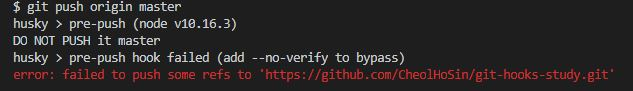
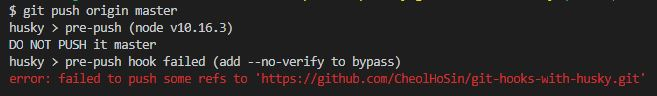
rename project

diff --git a/README.md b/README.md
@@ -135,8 +135,8 @@ push 를 실행하는 경우 동작해야 하므로, `pre-push` 훅을 사용하
 ```sh
 #!/bin/sh
 
-FORBIDDEN_HTTPS_URL="https://github.com/CheolHoSin/git-hooks-study.git" # insert your remote url (https)
-FORBIDDEN_SSH_URL="git@github.com:CheolHoSin/git-hooks-study.git" # insert your remote url (ssh)
+FORBIDDEN_HTTPS_URL="https://github.com/CheolHoSin/git-hooks-with-husky.git" # insert your remote url (https)
+FORBIDDEN_SSH_URL="git@github.com:CheolHoSin/git-hooks-with-husky.git" # insert your remote url (ssh)
 FORBIDDEN_REF="refs/heads/master" # insert branch ref
 
 remote="$1"
@@ -319,8 +319,8 @@ husky 를 사용하여 master 로 직접 push 하기를 방지해보자.
 ```sh
 #!/bin/sh
 
-FORBIDDEN_HTTPS_URL="https://github.com/CheolHoSin/git-hooks-study.git" # insert your remote url (https)
-FORBIDDEN_SSH_URL="git@github.com:CheolHoSin/git-hooks-study.git" # insert your remote url (ssh)
+FORBIDDEN_HTTPS_URL="https://github.com/CheolHoSin/git-hooks-with-husky.git" # insert your remote url (https)
+FORBIDDEN_SSH_URL="git@github.com:CheolHoSin/git-hooks-with-husky.git" # insert your remote url (ssh)
 FORBIDDEN_REF="refs/heads/master" # insert branch ref
 
 ARR_GIT_PARAMS=($(echo $HUSKY_GIT_PARAMS))
